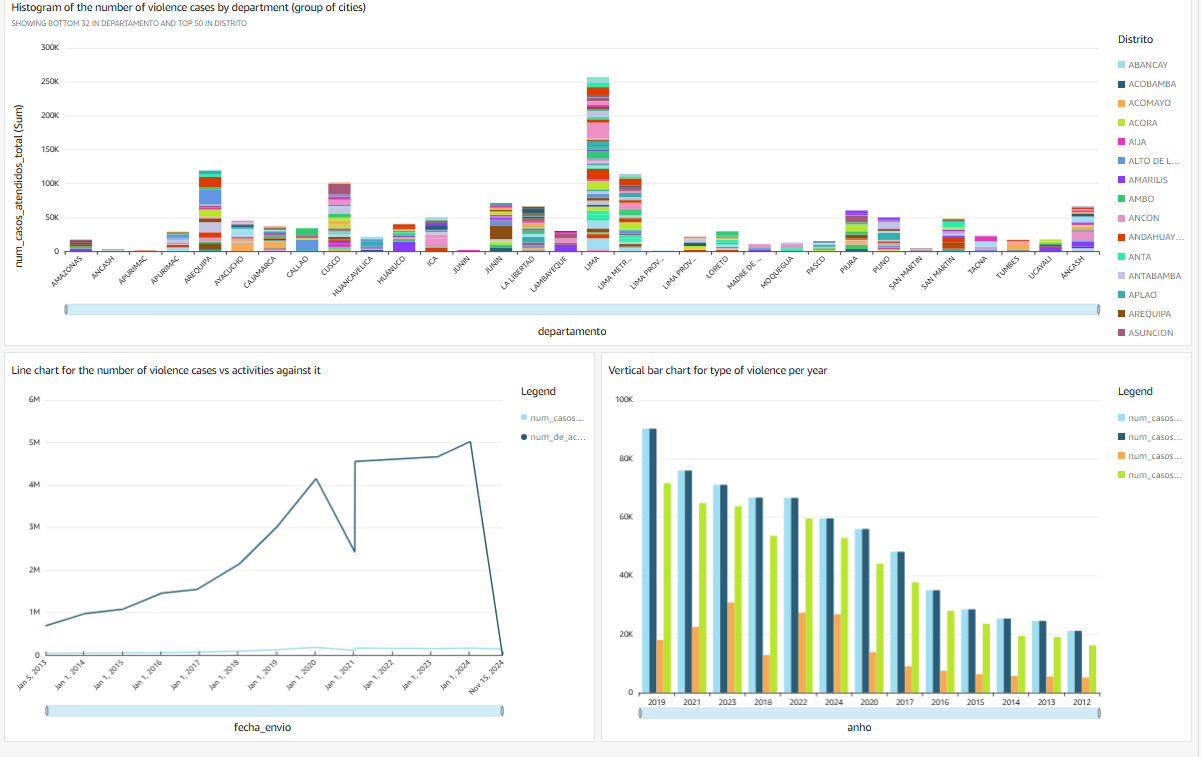
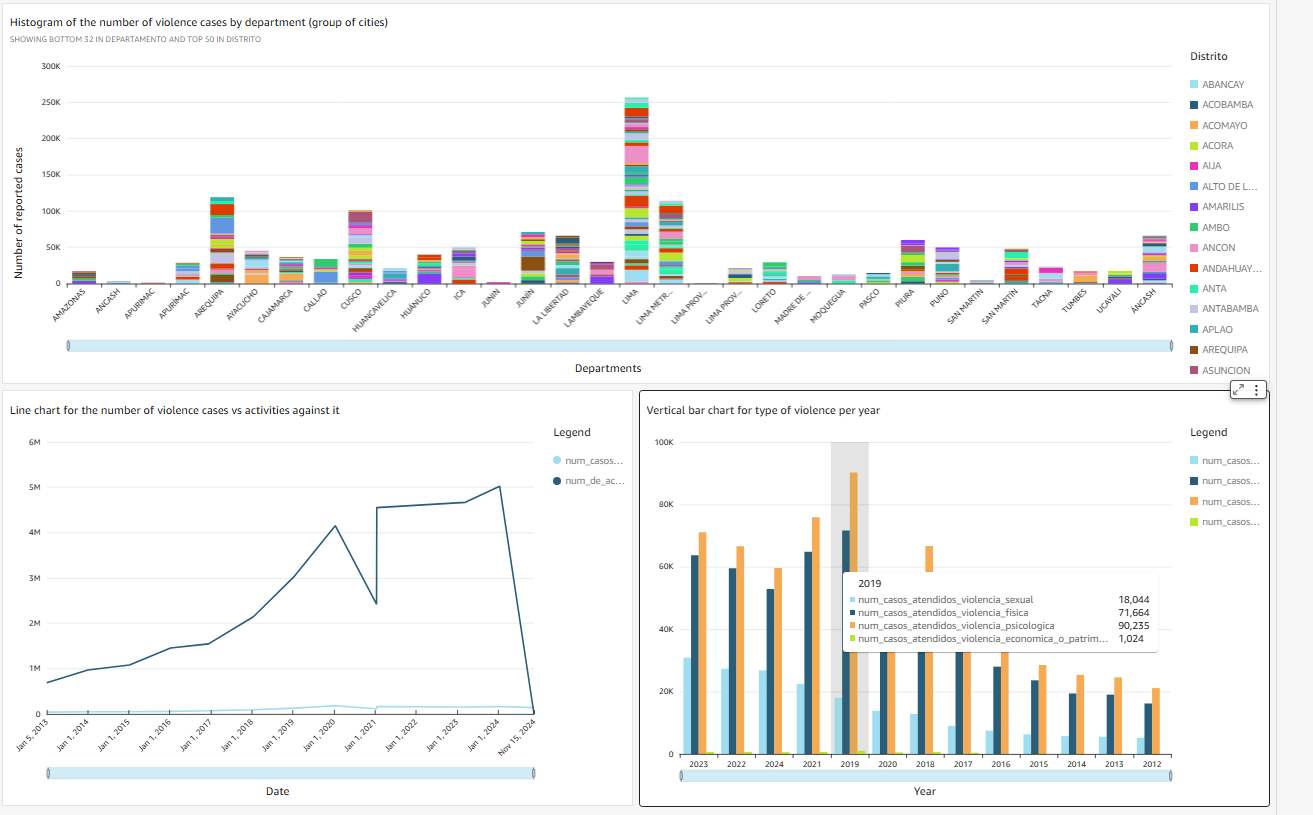
read me update

diff --git a/README.md b/README.md
@@ -43,7 +43,7 @@ We process violence cases data that includes:
 
   This information has been extracted from: [Perú Government data](https://www.datosabiertos.gob.pe/dataset/mimp-n%C3%BAmero-de-casos-atendidos-por-violencia-contra-la-mujer-integrantes-del-grupo-familiar) 
   However, since it is not easily accessible, there were some previous transformations of the data later hosted in a repo: [Perú Government data - Github by year](https://github.com/ccppyos/data_fem)
-  Here the data has been separated in years since they update it yearly.  
+  Here the data has been separated in years since they update it yearly and the code used for the transformation.
     
  
  ## Architecture
@@ -65,7 +65,7 @@ We process violence cases data that includes:
     * scheduling: **airflow**.
 * Dashboard:
     * Technology: **AWS Quicksight**;
-    * number of tiles: **4**
+    * number of tiles: **3**
 
 ## Running the Project
 ### 1. Requirements
